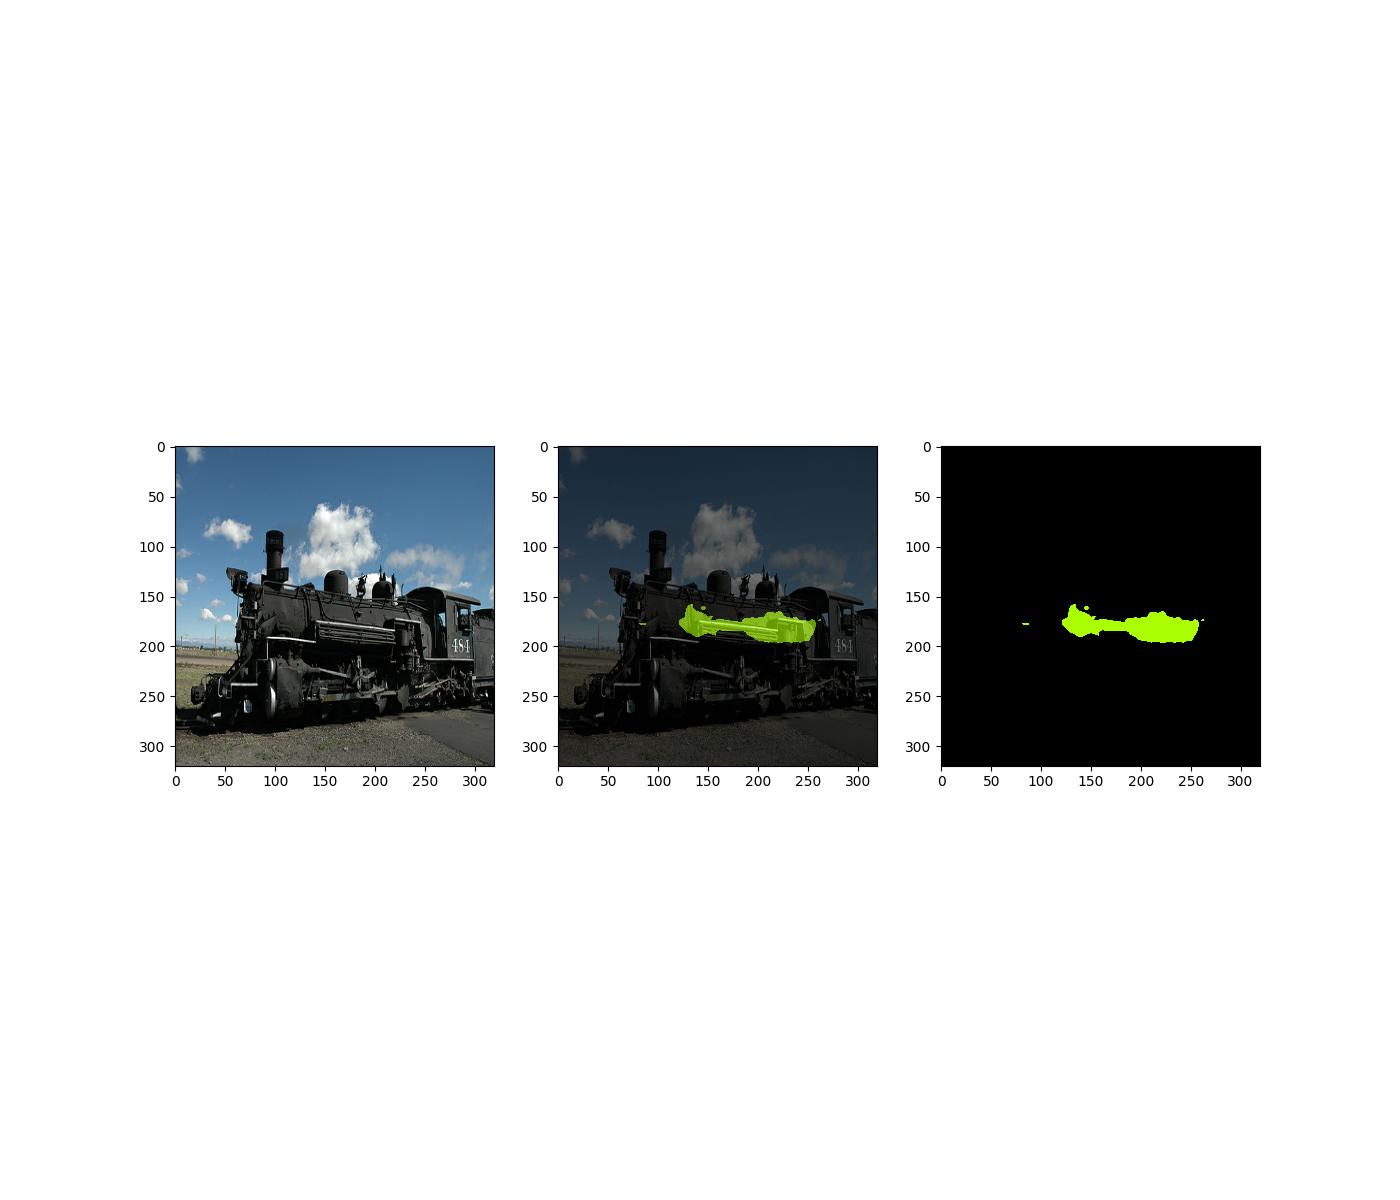
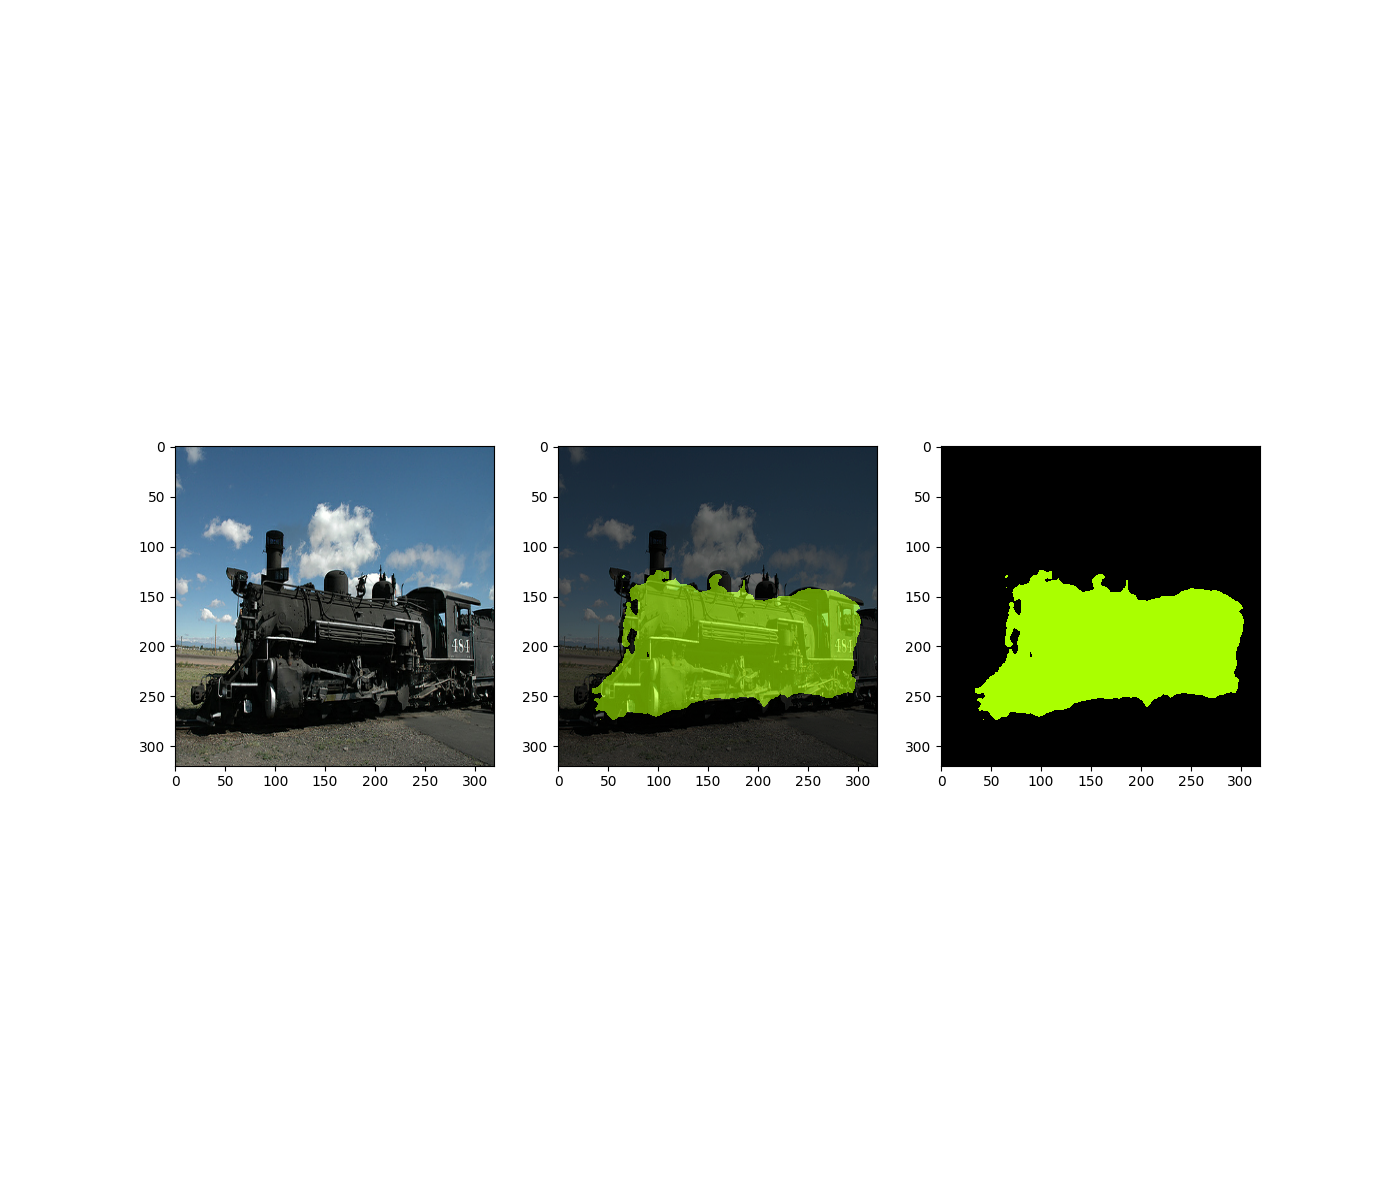
updated 2022.05.19

Changed region(s): [[0.6757, 0.4625, 0.8907, 0.6167], [0.43, 0.4625, 0.6143, 0.6167]]

diff --git a/source/segmentation/inference.py b/source/segmentation/inference.py
@@ -2,7 +2,7 @@ import os
 import sys
 os.environ['TF_CPP_MIN_LOG_LEVEL'] = '3'
 import cv2
-import advisor
+import timeit
 import numpy as np
 np.set_printoptions(threshold=sys.maxsize)
 import tensorflow as tf
@@ -18,9 +18,12 @@ def live_stream_inference(height, width):
     
     while cv2.waitKey(33) != ord('q'):
         ret, frame = capture.read()
+
+        start_time = timeit.default_timer()
         
         image = cv2.resize(frame, (IMG_SIZE, IMG_SIZE))
         image = cv2.cvtColor(image, cv2.COLOR_RGB2BGR)
+        image = image / 127.5 - 1
         input_tensor = np.expand_dims(image, axis=0)
         
         prediction = model.predict(input_tensor)
@@ -31,7 +34,10 @@ def live_stream_inference(height, width):
         decoded_mask = decode_segmentation_masks(prediction)
         overlay_image = get_overlay(decoded_mask, cv2.resize(frame, (IMG_SIZE, IMG_SIZE)))
 
+        end_time = timeit.default_timer()
+        fps = int(1./(end_time - start_time))
         cv2.imshow("PREDICTION", cv2.resize(overlay_image, (height, width)))
+        print(fps)
 
     capture.release()
     cv2.destroyAllWindows()
@@ -57,11 +63,7 @@ def image_file_inference(height, width):
         cv2.waitKey(0)
 
 
-def load_model_with_ckpt(ckpt_path, include_infer=False):
-    # dice_loss = advisor.losses.DiceLoss()
-    # categorical_focal_loss = advisor.losses.CategoricalFocalLoss()
-    # loss = dice_loss + (1 * categorical_focal_loss)
-    
+def load_model_with_ckpt(ckpt_path, include_infer=False):  
     loss = tf.keras.losses.CategoricalCrossentropy(from_logits=True)
     metrics = tf.keras.metrics.OneHotMeanIoU(num_classes=len(COLORMAP))
     optimizer = tf.keras.optimizers.Adam()
@@ -104,17 +106,16 @@ def get_overlay(image, colored_mask):
 
 
 if __name__ == "__main__":
-    CKPT_PATH = "/data/Models/segmentation/UNITY-ResNet101-AUGMENT_50/best.ckpt"
+    CKPT_PATH = "/data/Models/segmentation/VOC2012-ResNet101-AUGMENT_50-server/best.ckpt"
     IMG_PATH = "/data/Datasets/VOCdevkit/VOC2012/BASIC/valid/images"
     INFERENCE = "video"
 
     IMG_SIZE = 320
     BACKBONE_NAME = CKPT_PATH.split('/')[-2].split('-')[1]
-    print(BACKBONE_NAME)
     BACKBONE_TRAINABLE = False
     FINAL_ACTIVATION =  None
     INCLUDE_INFER = False
-    OUTPUT_SIZE = 960, 720
+    OUTPUT_SIZE = 320, 320
 
     COLORMAP = [[0, 0, 0], # background
                 [128, 0, 0], # aeroplane

diff --git a/source/segmentation/deprecated/test3/export_metadata.py b/source/segmentation/deprecated/test3/export_metadata.py
@@ -1,0 +1,13 @@
+import os
+from tflite_support import flatbuffers
+from tflite_support import metadata as _metadata
+from tflite_support import metadata_schema_py_generated as _metadata_fb
+
+export_directory = "/data/Models/segmentation/BACKUP"
+model_basename = "model_fp32_meta"
+displayer = _metadata.MetadataDisplayer.with_model_file(f"{export_directory}/{model_basename}.tflite")
+export_json_file = os.path.join(export_directory, os.path.splitext(model_basename)[0] + ".json")
+json_file = displayer.get_metadata_json()
+# Optional: write out the metadata as a json file
+with open(export_json_file, "w") as f:
+  f.write(json_file)

diff --git a/source/segmentation/deprecated/test3/hparams_config.py b/source/segmentation/deprecated/test3/hparams_config.py
@@ -28,7 +28,8 @@ param = dict(
     ## PATH
     DATASET_PATH = "/data/Datasets/VOCdevkit/VOC2012/BASIC",
     LABEL_PATH = "/data/Datasets/VOCdevkit/VOC2012/Labels/labels.txt",
-    SAVE_PATH = "/data/Models/segmentation/TEST/",
+    SAVE_PATH = "/data/Models/segmentation/TEST-BASIC",
+    CKPT = None,
 
     ## PARAMETERS
     BATCH_SIZE = 16,
@@ -47,7 +48,6 @@ param = dict(
     BACKBONE_NAME = "EfficientNetB3",
     BACKBONE_TRAINABLE = True,
     FINAL_ACTIVATION = None,
-    CKPT = None,
 
     COLORMAP = [
         [0, 0, 0], # background

diff --git a/source/segmentation/deprecated/test3/train.py b/source/segmentation/deprecated/test3/train.py
@@ -61,7 +61,7 @@ if __name__ == "__main__":
     save_ckpt = params["SAVE_PATH"]
     callbacks = [
         DisplayCallback(),
-        tf.keras.callbacks.ModelCheckpoint(f"{save_ckpt}/best,ckpt", monitor="val_sparse__mean_io_u", verbose=1, mode="max", save_best_only=True, save_weights_only=True)
+        tf.keras.callbacks.ModelCheckpoint(f"{save_ckpt}/best.ckpt", monitor="val_sparse__mean_io_u", verbose=1, mode="max", save_best_only=True, save_weights_only=True)
     ]
 
     data_dir = params["DATASET_PATH"]
